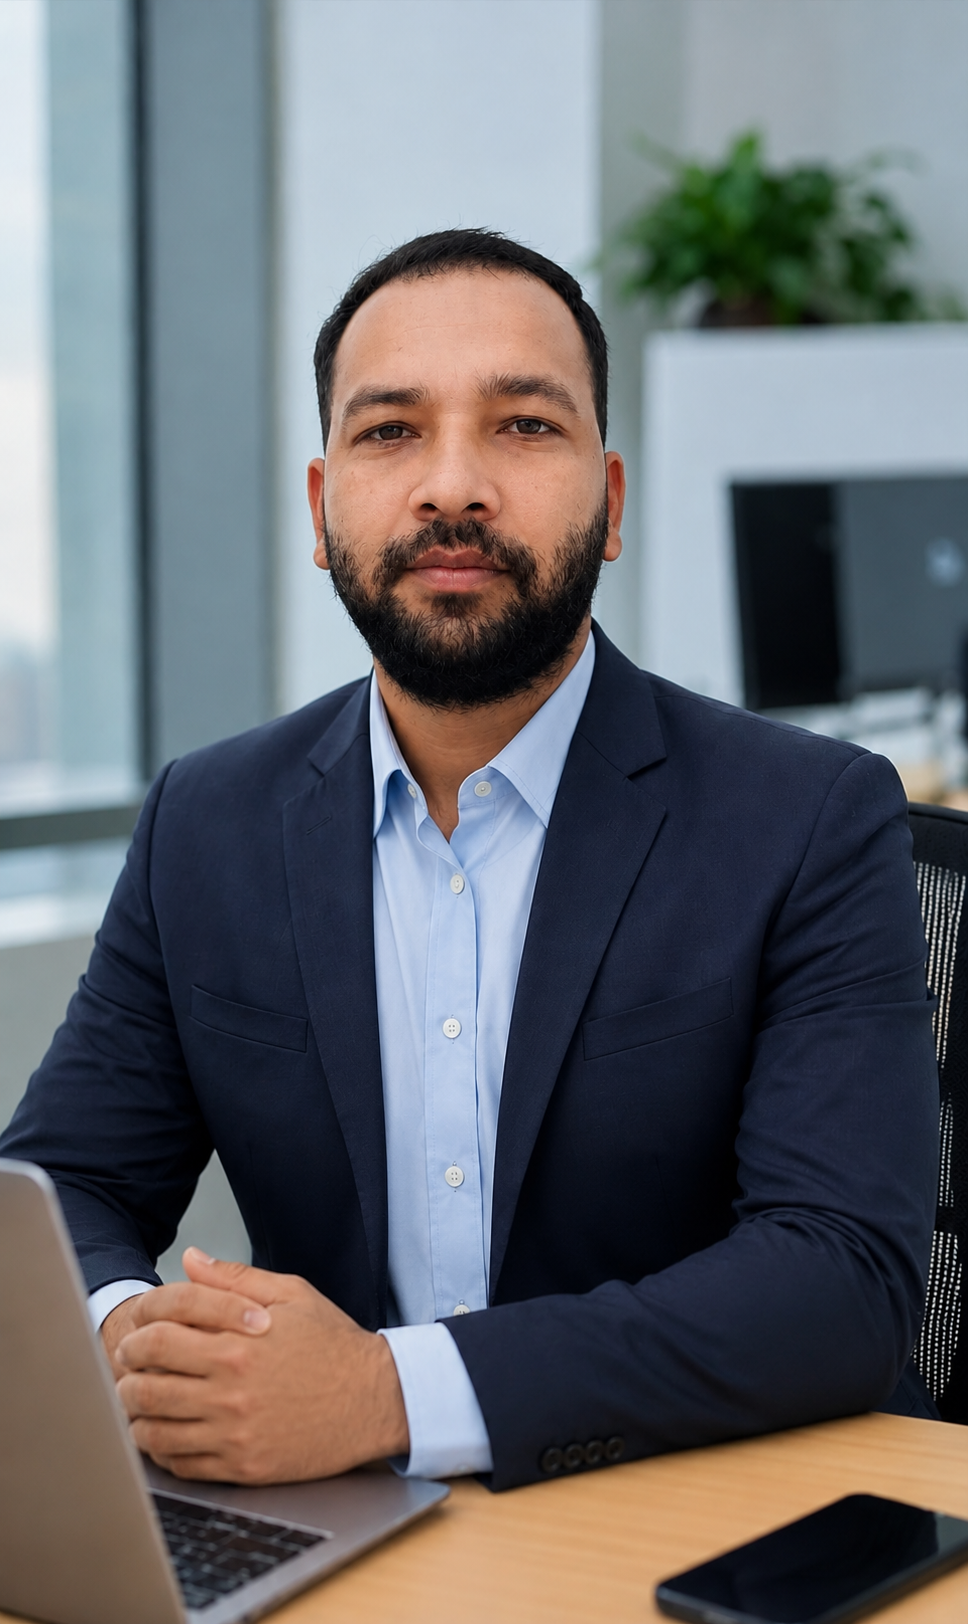
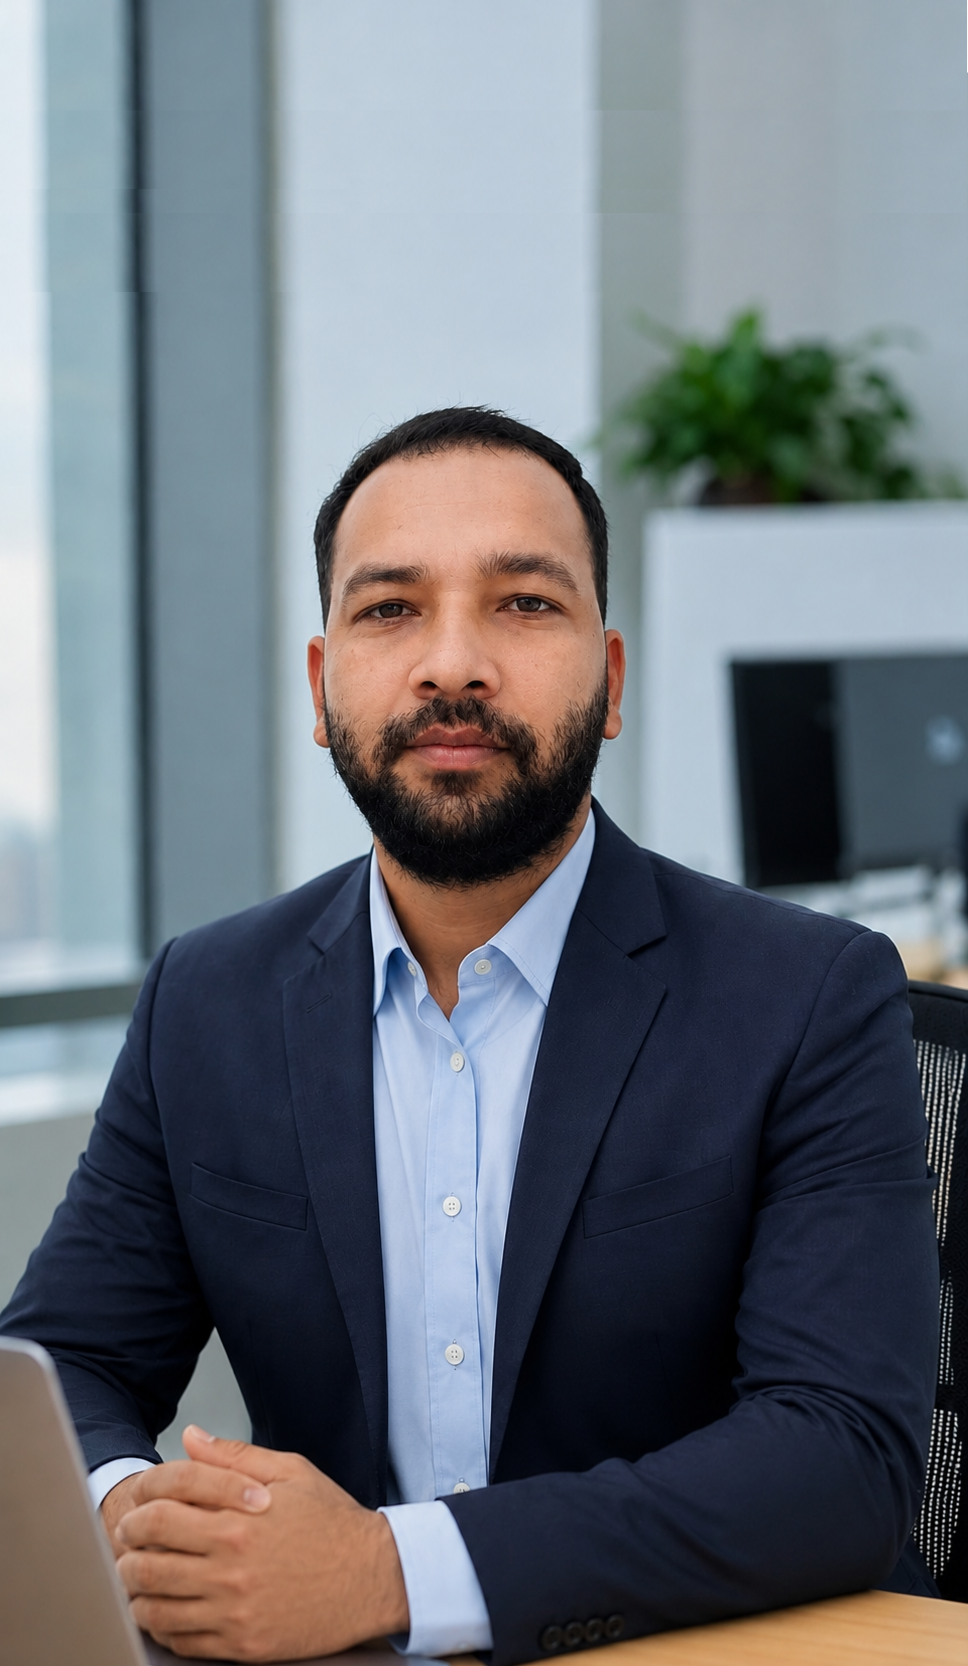
update portfoli

diff --git a/src/pages/Projects.jsx b/src/pages/Projects.jsx
@@ -1,13 +1,15 @@
 import React from 'react'
-
+import ecommercepage from '../assets/ecommerce_app.png'
+import courierwala from '../assets/courierwala.png'
+import bizupon from '../assets/bizupon.png'
 const projects = {
   flutter: [
     {
-      title: "UrjaOne Platform",
+      title: "CourierWala",
       description:
         "A dual-module mobile application consisting of Client and Vendor apps for electricity service management, bill tracking, service requests, complaints, and vendor operations.",
       tech: ["Flutter", "Firebase", "REST API", "Push Notifications"],
-      image: "/images/urjaone.png",
+      image: courierwala,
       demo: "#",
       github: "#",
     },
@@ -16,7 +18,7 @@ const projects = {
       description:
         "A digital automotive marketplace and auction platform with vehicle listings, real-time bidding, secure transactions, and integrated chat functionality.",
       tech: ["Flutter", "Firebase", "REST API", "Real-time Chat"],
-      image: "/images/bizupon.png",
+      image: bizupon,
       demo: "#",
       github: "#",
     },
@@ -25,7 +27,7 @@ const projects = {
       description:
         "An office productivity application for task management, internal communication, notifications, and team collaboration.",
       tech: ["Flutter", "Firebase", "REST API"],
-      image: "/images/officeassists.png",
+      image: ecommercepage,
       demo: "#",
       github: "#",
     },
@@ -34,7 +36,7 @@ const projects = {
       description:
         "A law and taxation platform that enables users to search and access new and historical laws with a seamless mobile experience.",
       tech: ["Flutter", "Firebase", "REST API"],
-      image: "/images/taxinq.png",
+      image: ecommercepage,
       demo: "#",
       github: "#",
     },
@@ -43,7 +45,7 @@ const projects = {
       description:
         "A recruitment and HR management platform designed for hiring, onboarding, employee management, and workforce operations.",
       tech: ["Flutter", "Firebase", "REST API"],
-      image: "/images/onboard.png",
+      image: ecommercepage,
       demo: "#",
       github: "#",
     },
@@ -52,7 +54,7 @@ const projects = {
       description:
         "Human Resource Management application for employee tracking, leave management, attendance, and performance monitoring.",
       tech: ["Flutter", "Firebase", "REST API"],
-      image: "/images/iottech-hrm.png",
+      image: ecommercepage,
       demo: "#",
       github: "#",
     },
@@ -61,7 +63,7 @@ const projects = {
       description:
         "An educational platform providing study materials, practice tests, performance analytics, and exam preparation tools.",
       tech: ["Flutter", "Firebase", "REST API"],
-      image: "/images/rank2top.png",
+      image: ecommercepage,
       demo: "#",
       github: "#",
     },
@@ -70,7 +72,7 @@ const projects = {
       description:
         "A real-time chat application designed for customer support and team collaboration with instant messaging capabilities.",
       tech: ["Flutter", "Firebase", "REST API", "Real-time Chat"],
-      image: "/images/iottech-chat.png",
+      image: ecommercepage,
       demo: "#",
       github: "#",
     },
@@ -111,7 +113,7 @@ const Projects = () => {
   return (
     <section
       id="projects"
-      className="w-full bg-white py-16 lg:py-24 px-5 lg:px-20"
+      className="w-full bg-white py-20 lg:py-24 px-5 lg:px-20"
     >
       <div className="max-w-7xl mx-auto">
         <h2 className="text-4xl font-bold text-[#fa8816] text-center mb-4">

diff --git a/src/components/Hero.jsx b/src/components/Hero.jsx
@@ -1,5 +1,5 @@
 import hero from "../assets/home2.jpg";
-import profileImage from "../assets/dev3.jpeg"
+import profileImage from "../assets/dev2.png"
 import {  Link, useNavigate } from "react-router-dom";
 import { useEffect } from "react";
 import AOS from "aos";
@@ -23,15 +23,15 @@ function Hero() {
         style={{ backgroundImage: `url(${hero})` }}
       >
         {/* OVERLAY */}
-        <div className="absolute inset-0 bg-black/50 z-10"></div>
+        {/* <div className="absolute inset-0 bg-black/50 z-10"></div> */}
 
         <div
           // className="absolute bottom-24 right-5 md:right-40 z-10"
-          className="absolute bottom-5 right-5 md:right-75 lg:right-75 z-20"
+          className="absolute bottom-5 right-5 md:right-25 lg:right-25 z-10"
           data-aos="zoom-in"
         >
           <div 
-          className="w-35 h-35 md:w-60 md:h-60 rounded-full overflow-hidden  shadow-[0_0_40px_rgba(255,255,255,0.3)]"
+          className="w-35 h-35 md:w-50 md:h-50 rounded-full overflow-hidden  shadow-[0_0_40px_rgba(255,255,255,0.3)]"
           // className="w-35 h-35 md:w-56 md:h-56 rounded-full overflow-hidden border-4 border-white shadow-2xl"
           >
             <img
@@ -63,7 +63,7 @@ function Hero() {
           <button 
           data-aos="slide-right"
           onClick={() => navigate(`/projects`)}
-          className="mt-8 bg-[#616060] hover:bg-[#FF9933] transition-all duration-300 px-8 py-4 rounded-[10px] text-white text-lg">
+          className="mt-8 bg-[#FF9933] hover:bg-[#616060] transition-all duration-300 px-8 py-4 rounded-[10px] text-white text-lg">
             View My Work
           </button>
         </div>

diff --git a/index.html b/index.html
@@ -6,9 +6,9 @@
   <link rel="icon" href="/dd_logo.png" />
   <meta name="viewport" content="width=device-width, initial-scale=1.0" />
   <meta name="google-site-verification" content="cFTLARTsULl5WnujBZ-SHmCRkPXgIZ5PJca3_3BHazg" />
-  <title>DevDevelopment | Full Stack Developer</title>
+  <title>Dev Development – Modern Web Development & Digital Solutions</title>
   <meta name="description"
-    content="Experienced Full Stack Developer with 5+ years of experience in React, Node.js, Flutter, Android, MongoDB and API Development." />
+    content="Dev Development offers modern, fast and responsive web development solutions including websites, web apps, and UI/UX design to help your business grow online." />
 
   <meta name="keywords"
     content="Full Stack Developer, React Developer, Flutter Developer, Node.js Developer, Freelance Developer India" />

diff --git a/src/pages/Home.jsx b/src/pages/Home.jsx
@@ -6,6 +6,8 @@ import Service from './Service'
 // import FutureProduct from './FutureProduct'
 // import WhyChooseUs from './WhyChooseUs'
 import Contact from './Contact'
+import Blogs from './Blogs'
+import FAQ from './FAQ'
 // import WhyDrymato from './WhyDrymato'
 
 function Home() {
@@ -13,6 +15,8 @@ function Home() {
     <div className='w-full'>
       <Hero />
       <Projets/>
+      <Blogs/>
+      <FAQ/>
       <Service/>
        <About/>
       <Contact/>

diff --git a/src/pages/About.jsx b/src/pages/About.jsx
@@ -15,7 +15,7 @@ import { BsFillBriefcaseFill } from "react-icons/bs";
 
 const About = () => {
   return (
-    <section className="w-full bg-white py-16 lg:py-24 px-5 lg:px-20">
+    <section className="w-full bg-white py-20 lg:py-24 px-5 lg:px-20">
       <div className="max-w-7xl mx-auto">
         <div className="grid lg:grid-cols-2 gap-12 items-center">
           {/* Left Side */}

diff --git a/src/pages/Blogs.jsx b/src/pages/Blogs.jsx
@@ -1,0 +1,15 @@
+import { section } from 'framer-motion/client'
+import React from 'react'
+
+const Blogs = () => {
+  return (
+  
+      <section className="w-full bg-white py-20 lg:py-24 px-5 lg:px-20">
+        <div>
+            <h2 className='content-center text-center'>This is my Blogs page.</h2>
+        </div>
+       </section>
+  )
+}
+
+export default Blogs

diff --git a/src/App.jsx b/src/App.jsx
@@ -59,7 +59,7 @@ const handleDownload = () => {
           onClick={handleDownload}
           sx={{
             position: "fixed",
-            bottom: 10,
+            bottom: 20,
             right: 20,
             backgroundColor: "#FF9933", // भगवा रंग
             color: "#FFFFFF", // सफेद टेक्स्ट और आइकॉन

diff --git a/src/pages/FAQ.jsx b/src/pages/FAQ.jsx
@@ -1,0 +1,14 @@
+import { section } from 'framer-motion/client'
+import React from 'react'
+
+const FAQ = () => {
+  return (
+   <section className="w-full bg-white py-20 lg:py-24 px-5 lg:px-20">
+    <div >
+        <h2 className='content-center text-center'>This is my FAQ</h2>
+    </div>
+   </section>
+  )
+}
+
+export default FAQ

diff --git a/src/pages/Service.jsx b/src/pages/Service.jsx
@@ -35,7 +35,7 @@ const services = [
 
 const Service = () => {
   return (
-    <section className="w-full bg-gray-50 py-16 lg:py-24 px-5 lg:px-20">
+    <section className="w-full bg-white py-20 lg:py-24 px-5 lg:px-20">
       <div className="max-w-7xl mx-auto">
         {/* Heading */}
         <div className="text-center mb-14">

diff --git a/src/pages/Contact.jsx b/src/pages/Contact.jsx
@@ -54,7 +54,7 @@ const Contact = () => {
   };
 
   return (
-    <section className="w-full bg-gray-50 py-16 lg:py-24 px-5 lg:px-20">
+    <section className="w-full bg-white py-20 lg:py-24 px-5 lg:px-20">
       <div className="max-w-7xl mx-auto">
         {/* Heading */}
         <div className="text-center mb-14">
